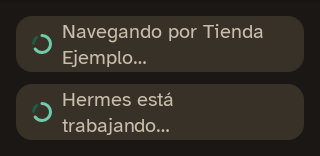
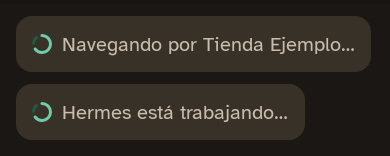
android(C1): Revisión PR — tipografía M3 completa + fixes de review
- MamaTypography define los 15 slots de M3 (displayLarge/Medium/Small y
  headlineLarge caían a Roboto por defecto — MainActivity ya usaba
  headlineLarge para "Hermes"). Nueva MamaTypographyTest: los 15 slots
  usan MamaFontFamily (assertSame) y ningún tamaño baja de 15 sp.
- ScreenshotTestBase: @Config(qualifiers = "w390dp") — los goldens
  pasan de 320 px (coacción del display por defecto) a 390 dp reales;
  referencias regrabadas.
- Sheets: los dos literales de ejemplo pasan a strings_design.xml
  (design_example_bubble_hermes_doc, design_example_banner_working).
- ChatBubble: ancho máximo por autor (usuaria 300 dp / Hermes 320 dp,
  según mockup) via BubbleMaxWidthUser/BubbleMaxWidthHermes.
- core-ui: fuera debugImplementation(ui-test-manifest) — redundante con
  src/test/AndroidManifest.xml, que ya cubre debug y release.

./gradlew :core-ui:test ktlintCheck detekt lint testDevDebugUnitTest recordRoborazzi

diff --git a/apps/android/core-ui/src/test/kotlin/ai/hermes/mama/core/ui/theme/MamaTypographyTest.kt b/apps/android/core-ui/src/test/kotlin/ai/hermes/mama/core/ui/theme/MamaTypographyTest.kt
@@ -1,0 +1,75 @@
+package ai.hermes.mama.core.ui.theme
+
+import kotlin.test.Test
+import kotlin.test.assertSame
+import kotlin.test.assertTrue
+
+/**
+ * Guarda contra la trampa silenciosa de los slots de M3: cualquier estilo sin
+ * definir cae a `FontFamily.Default` (Roboto) con tamaños fuera de escala.
+ * Los 15 slots deben apuntar al MISMO objeto [MamaFontFamily].
+ */
+class MamaTypographyTest {
+    @Test
+    fun allSlots_useMamaFontFamily() {
+        val styles =
+            mapOf(
+                "displayLarge" to MamaTypography.displayLarge,
+                "displayMedium" to MamaTypography.displayMedium,
+                "displaySmall" to MamaTypography.displaySmall,
+                "headlineLarge" to MamaTypography.headlineLarge,
+                "headlineMedium" to MamaTypography.headlineMedium,
+                "headlineSmall" to MamaTypography.headlineSmall,
+                "titleLarge" to MamaTypography.titleLarge,
+                "titleMedium" to MamaTypography.titleMedium,
+                "titleSmall" to MamaTypography.titleSmall,
+                "bodyLarge" to MamaTypography.bodyLarge,
+                "bodyMedium" to MamaTypography.bodyMedium,
+                "bodySmall" to MamaTypography.bodySmall,
+                "labelLarge" to MamaTypography.labelLarge,
+                "labelMedium" to MamaTypography.labelMedium,
+                "labelSmall" to MamaTypography.labelSmall,
+            )
+        styles.forEach { (slot, style) ->
+            assertSame(
+                MamaFontFamily,
+                style.fontFamily,
+                "$slot no usa MamaFontFamily (¿caído al default de M3?)",
+            )
+        }
+    }
+
+    @Test
+    fun allSlots_keepMinimumReadableSize() {
+        // AGENTS.md: nada de letra pequeña; el mínimo del sistema es 15 sp
+        // (bodySmall, sólo metadatos). El chat va a 19 sp.
+        val styles =
+            listOf(
+                MamaTypography.displayLarge,
+                MamaTypography.displayMedium,
+                MamaTypography.displaySmall,
+                MamaTypography.headlineLarge,
+                MamaTypography.headlineMedium,
+                MamaTypography.headlineSmall,
+                MamaTypography.titleLarge,
+                MamaTypography.titleMedium,
+                MamaTypography.titleSmall,
+                MamaTypography.bodyLarge,
+                MamaTypography.bodyMedium,
+                MamaTypography.bodySmall,
+                MamaTypography.labelLarge,
+                MamaTypography.labelMedium,
+                MamaTypography.labelSmall,
+            )
+        styles.forEach { style ->
+            assertTrue(
+                style.fontSize.value >= MIN_FONT_SP,
+                "fontSize %.1f sp < %.0f sp".format(style.fontSize.value, MIN_FONT_SP),
+            )
+        }
+    }
+
+    private companion object {
+        const val MIN_FONT_SP = 15f
+    }
+}

diff --git a/apps/android/core-ui/src/main/kotlin/ai/hermes/mama/core/ui/theme/Type.kt b/apps/android/core-ui/src/main/kotlin/ai/hermes/mama/core/ui/theme/Type.kt
@@ -39,9 +39,19 @@ private fun mamaStyle(
  * pantalla 22 sp, título de tarjeta 24 sp, etiquetas 16–17 sp, botones 20 sp
  * en negrita. Todo ≥ 14 sp: nada de letra pequeña (AGENTS.md: ≥ 18 sp en el
  * chat, aquí el cuerpo es 19).
+ *
+ * Los 15 slots de M3 quedan definidos con Atkinson: los de familia display y
+ * headlineLarge apenas se usan en la app, pero si un feature-* los invoca no
+ * deben caer a la fuente por defecto (Roboto) ni a tamaños fuera de escala.
  */
 val MamaTypography =
     Typography(
+        // Titulares de portada; en la escala, por encima de los encabezados.
+        displayLarge = mamaStyle(FontWeight.Bold, 40f, 48f),
+        displayMedium = mamaStyle(FontWeight.Bold, 36f, 44f),
+        displaySmall = mamaStyle(FontWeight.Bold, 34f, 40f),
+        // Nombre de la app / encabezados destacados (MainActivity).
+        headlineLarge = mamaStyle(FontWeight.Bold, 30f, 36f),
         // Encabezado de pantalla ("Conectar con Hermes" en Conexión).
         headlineMedium = mamaStyle(FontWeight.Bold, 28f, 34f),
         // Título de tarjeta (Aprobación, Pregunta, hoja inferior).

diff --git a/apps/android/core-ui/src/main/kotlin/ai/hermes/mama/core/ui/components/ChatBubble.kt b/apps/android/core-ui/src/main/kotlin/ai/hermes/mama/core/ui/components/ChatBubble.kt
@@ -54,8 +54,15 @@ fun ChatBubble(
         Surface(
             modifier =
                 Modifier
-                    .widthIn(max = MamaDimens.BubbleMaxWidth)
-                    .heightIn(min = MamaDimens.MinTouchTarget),
+                    // Mockup Chat: la usuaria ~300 px, Hermes ~320 px.
+                    .widthIn(
+                        max =
+                            if (isUser) {
+                                MamaDimens.BubbleMaxWidthUser
+                            } else {
+                                MamaDimens.BubbleMaxWidthHermes
+                            },
+                    ).heightIn(min = MamaDimens.MinTouchTarget),
             shape =
                 RoundedCornerShape(
                     topStart = MamaDimens.BubbleCorner,

diff --git a/apps/android/core-ui/src/test/kotlin/ai/hermes/mama/core/ui/components/Sheets.kt b/apps/android/core-ui/src/test/kotlin/ai/hermes/mama/core/ui/components/Sheets.kt
@@ -56,7 +56,7 @@ internal fun ChatBubbleSheet() {
         onListenClick = {},
     )
     ChatBubble(
-        text = "Aquí tienes la factura. ¿Quieres que la abra?",
+        text = stringResource(R.string.design_example_bubble_hermes_doc),
         author = ChatBubbleAuthor.Hermes,
     )
 }
@@ -77,7 +77,7 @@ internal fun ActivityChipSheet() {
 @Composable
 internal fun TopBannerSheet() {
     TopBanner()
-    TopBanner(text = "Hermes está trabajando. Puedes esperar aquí.")
+    TopBanner(text = stringResource(R.string.design_example_banner_working))
 }
 
 @Composable

diff --git a/apps/android/core-ui/src/main/kotlin/ai/hermes/mama/core/ui/theme/MamaDimens.kt b/apps/android/core-ui/src/main/kotlin/ai/hermes/mama/core/ui/theme/MamaDimens.kt
@@ -34,8 +34,11 @@ object MamaDimens {
     /** Radio superior de la hoja inferior (aprobaciones, documentos). */
     val SheetCorner = 28.dp
 
-    /** Ancho máximo de una burbuja de chat. */
-    val BubbleMaxWidth = 320.dp
+    /** Ancho máximo de la burbuja de la usuaria (mockup Chat: ~300 px). */
+    val BubbleMaxWidthUser = 300.dp
+
+    /** Ancho máximo de la burbuja de Hermes (mockup Chat: ~320 px). */
+    val BubbleMaxWidthHermes = 320.dp
 
     /** Padding horizontal interno de las burbujas. */
     val BubblePaddingHorizontal = 18.dp

diff --git a/apps/android/core-ui/src/test/kotlin/ai/hermes/mama/core/ui/components/ScreenshotTestBase.kt b/apps/android/core-ui/src/test/kotlin/ai/hermes/mama/core/ui/components/ScreenshotTestBase.kt
@@ -30,7 +30,9 @@ private val MockupWidth = 390.dp
 
 @RunWith(RobolectricTestRunner::class)
 @GraphicsMode(GraphicsMode.Mode.NATIVE)
-@Config(sdk = [34])
+// w390dp: sin él, la pantalla de Robolectric es 320 dp y el Surface de
+// MockupWidth quedaría coaccionado — los goldens deben ser 390 dp reales.
+@Config(sdk = [34], qualifiers = "w390dp")
 abstract class ScreenshotTestBase {
     @get:Rule
     val composeRule = createAndroidComposeRule<ComponentActivity>()
